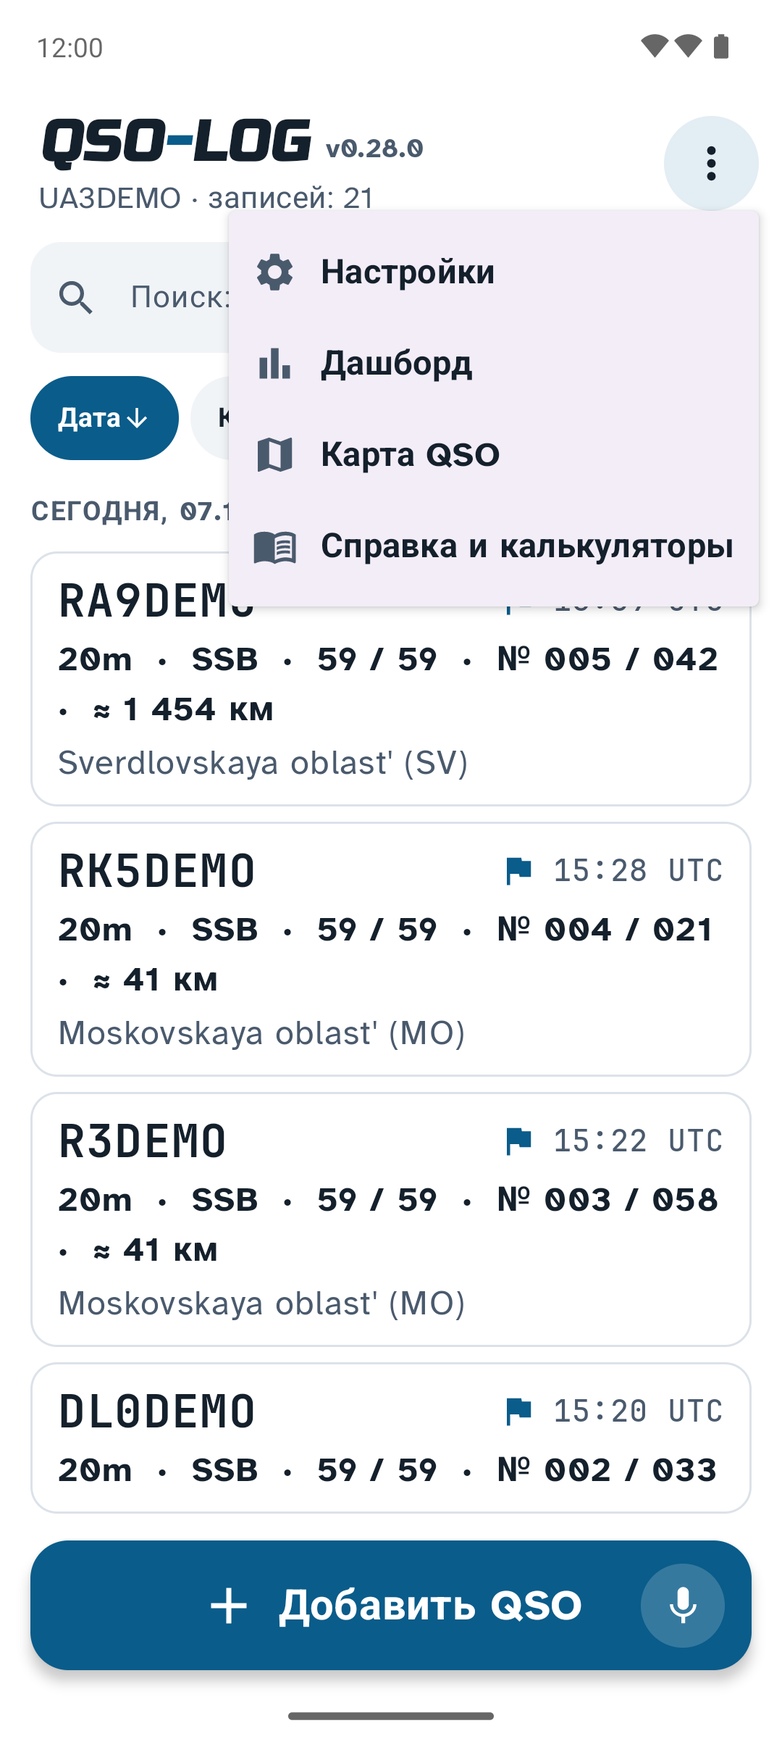
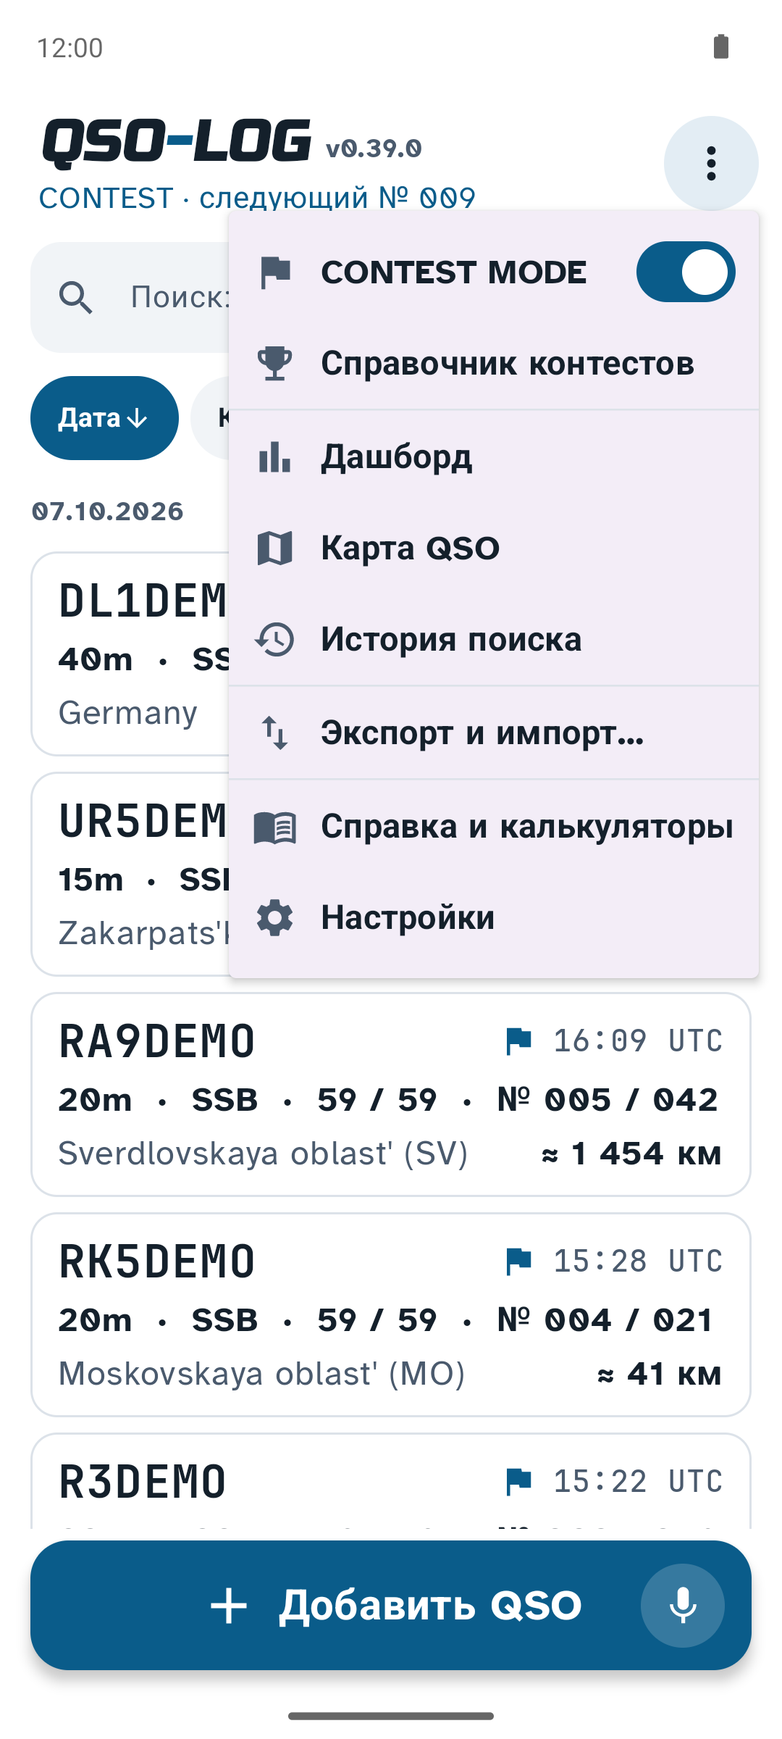
Android 0.39.0: grouped ⋮ menu, CONTEST MODE switch in the menu, Export and import in one window
- ⋮ menu in groups: CONTEST MODE (whole-row switch) and the contest book; dashboard, map, search history;
  Export and import…, sync; reference, keys (only with a keyboard attached), settings last.
- Export and import dialog: ADIF, CSV, ЕРМАК/Cabrillo in one place.
- Search history menu row only opens the screen (no switch inside the row).

diff --git a/app/src/main/java/ru/r3xed/qsolog/ui/LogScreen.kt b/app/src/main/java/ru/r3xed/qsolog/ui/LogScreen.kt
@@ -39,6 +39,9 @@ import androidx.compose.foundation.text.KeyboardOptions
 import androidx.compose.material.icons.Icons
 import androidx.compose.material.icons.filled.Add
 import androidx.compose.material.icons.filled.EmojiEvents
+import androidx.compose.material3.HorizontalDivider
+import androidx.compose.material3.Switch
+import androidx.compose.material.icons.filled.ImportExport
 import androidx.compose.material.icons.filled.ArrowDownward
 import androidx.compose.material.icons.filled.ArrowUpward
 import androidx.compose.material.icons.filled.CheckCircle
@@ -161,11 +164,14 @@ fun LogScreen(
                     FilledTonalIconButton(onClick = { menu = true }, modifier = Modifier.size(50.dp)) {
                         Icon(Icons.Filled.MoreVert, contentDescription = tr("Меню"), modifier = Modifier.size(27.dp))
                     }
+                    // Grouped: the operating mode, the log's views, files, then help and the settings — the rarest last.
                     DropdownMenu(expanded = menu, onDismissRequest = { menu = false }) {
+                        // The whole row switches contest mode; the menu stays open so the contest book shows up under it.
                         DropdownMenuItem(
-                            text = { MenuText(tr("Настройки"), "Ctrl+,", vm.hardKeyboard) },
-                            leadingIcon = { Icon(Icons.Filled.Settings, null) },
-                            onClick = { menu = false; vm.openSettings() },
+                            text = { MenuText("CONTEST MODE", "Ctrl+K", vm.hardKeyboard) },
+                            leadingIcon = { Icon(Icons.Filled.Flag, null) },
+                            trailingIcon = { Switch(checked = vm.contestMode, onCheckedChange = null) },
+                            onClick = { vm.toggleContestMode() },
                         )
                         if (vm.contestMode) {
                             DropdownMenuItem(
@@ -174,15 +180,7 @@ fun LogScreen(
                                 onClick = { menu = false; vm.openContests() },
                             )
                         }
-                        // Shown once the table is set up in the settings; the sync runs only from here or there.
-                        if (SheetSync.isScriptUrl(vm.sheetUrl)) {
-                            DropdownMenuItem(
-                                text = { Text(if (vm.sheetSyncing) tr("Синхронизация…") else tr("Синхронизировать"), fontSize = 18.sp) },
-                                leadingIcon = { Icon(Icons.Filled.Sync, null) },
-                                enabled = !vm.sheetSyncing,
-                                onClick = { menu = false; vm.syncSheet() },
-                            )
-                        }
+                        HorizontalDivider()
                         DropdownMenuItem(
                             text = { MenuText(tr("Дашборд"), "Ctrl+D", vm.hardKeyboard) },
                             leadingIcon = { Icon(Icons.Filled.BarChart, null) },
@@ -194,15 +192,39 @@ fun LogScreen(
                             onClick = { menu = false; vm.openMap() },
                         )
                         HistoryMenuItem(vm) { menu = false; vm.openHistory() }
+                        HorizontalDivider()
+                        DropdownMenuItem(
+                            text = { Text(tr("Экспорт и импорт…"), fontSize = 18.sp) },
+                            leadingIcon = { Icon(Icons.Filled.ImportExport, null) },
+                            onClick = { menu = false; vm.showTransfer = true },
+                        )
+                        // Shown once the table is set up in the settings; the sync runs only from here or there.
+                        if (SheetSync.isScriptUrl(vm.sheetUrl)) {
+                            DropdownMenuItem(
+                                text = { MenuText(if (vm.sheetSyncing) tr("Синхронизация…") else tr("Синхронизировать"), "Ctrl+R", vm.hardKeyboard) },
+                                leadingIcon = { Icon(Icons.Filled.Sync, null) },
+                                enabled = !vm.sheetSyncing,
+                                onClick = { menu = false; vm.syncSheet() },
+                            )
+                        }
+                        HorizontalDivider()
                         DropdownMenuItem(
                             text = { Text(tr("Справка и калькуляторы"), fontSize = 18.sp) },
                             leadingIcon = { Icon(Icons.AutoMirrored.Filled.MenuBook, null) },
                             onClick = { menu = false; vm.openReference() },
                         )
+                        // The list of keys matters only with a keyboard attached (F1 opens it as well).
+                        if (vm.hardKeyboard) {
+                            DropdownMenuItem(
+                                text = { MenuText(tr("Клавиши"), "F1", true) },
+                                leadingIcon = { Icon(Icons.Filled.Keyboard, null) },
+                                onClick = { menu = false; vm.showKeys = true },
+                            )
+                        }
                         DropdownMenuItem(
-                            text = { MenuText(tr("Внешняя клавиатура"), "F1", vm.hardKeyboard) },
-                            leadingIcon = { Icon(Icons.Filled.Keyboard, null) },
-                            onClick = { menu = false; vm.showKeys = true },
+                            text = { MenuText(tr("Настройки"), "Ctrl+,", vm.hardKeyboard) },
+                            leadingIcon = { Icon(Icons.Filled.Settings, null) },
+                            onClick = { menu = false; vm.openSettings() },
                         )
                     }
                 }

diff --git a/app/src/main/java/ru/r3xed/qsolog/ui/TransferDialog.kt b/app/src/main/java/ru/r3xed/qsolog/ui/TransferDialog.kt
@@ -1,0 +1,81 @@
+package ru.r3xed.qsolog.ui
+
+import androidx.compose.foundation.layout.Arrangement
+import androidx.compose.foundation.layout.Column
+import androidx.compose.foundation.layout.Row
+import androidx.compose.foundation.layout.Spacer
+import androidx.compose.foundation.layout.fillMaxWidth
+import androidx.compose.foundation.layout.heightIn
+import androidx.compose.foundation.layout.padding
+import androidx.compose.foundation.layout.width
+import androidx.compose.foundation.rememberScrollState
+import androidx.compose.foundation.shape.RoundedCornerShape
+import androidx.compose.foundation.verticalScroll
+import androidx.compose.material.icons.Icons
+import androidx.compose.material.icons.filled.FileDownload
+import androidx.compose.material.icons.filled.FileUpload
+import androidx.compose.material.icons.filled.ImportExport
+import androidx.compose.material3.AlertDialog
+import androidx.compose.material3.Icon
+import androidx.compose.material3.MaterialTheme
+import androidx.compose.material3.OutlinedButton
+import androidx.compose.material3.Text
+import androidx.compose.material3.TextButton
+import androidx.compose.runtime.Composable
+import androidx.compose.ui.Modifier
+import androidx.compose.ui.graphics.vector.ImageVector
+import androidx.compose.ui.unit.dp
+import androidx.compose.ui.unit.sp
+import ru.r3xed.qsolog.data.ExportFormat
+import ru.r3xed.qsolog.tr
+
+/**
+ * "Экспорт и импорт…" from the ⋮ menu: every file format in one place — what used to be six buttons deep in the
+ * settings. [onExport] opens the format's own export dialog; the imports open the file picker.
+ */
+@Composable
+fun TransferDialog(
+    total: Int,
+    onExport: (ExportFormat) -> Unit,
+    onImportAdif: () -> Unit,
+    onImportCsv: () -> Unit,
+    onImportContest: () -> Unit,
+    onDismiss: () -> Unit,
+) {
+    val x = LocalExtra.current
+    AlertDialog(
+        onDismissRequest = onDismiss,
+        icon = { Icon(Icons.Filled.ImportExport, null, tint = MaterialTheme.colorScheme.primary) },
+        title = { Text(tr("Экспорт и импорт")) },
+        text = {
+            Column(Modifier.heightIn(max = 520.dp).verticalScroll(rememberScrollState()), verticalArrangement = Arrangement.spacedBy(8.dp)) {
+                Text(tr("Экспорт журнала (записей: %s)", total), style = MaterialTheme.typography.titleSmall)
+                Choice("ADIF", tr("для LogHX, UR5EQF, QRZ.com, LoTW"), Icons.Filled.FileUpload) { onExport(ExportFormat.ADIF) }
+                Choice("CSV", tr("таблица для Excel и Google Таблиц"), Icons.Filled.FileUpload) { onExport(ExportFormat.CSV) }
+                Choice(tr("ЕРМАК / Cabrillo"), tr("отчёт для соревнований"), Icons.Filled.FileUpload) { onExport(ExportFormat.CONTEST) }
+                Text(tr("Импорт в журнал"), style = MaterialTheme.typography.titleSmall, modifier = Modifier.padding(top = 8.dp))
+                Choice("ADIF", tr("файл .adi или .adif"), Icons.Filled.FileDownload, onImportAdif)
+                Choice("CSV", tr("таблица с разделителем «;»"), Icons.Filled.FileDownload, onImportCsv)
+                Choice(tr("ЕРМАК / Cabrillo"), tr("отчёт .txt или .cbr"), Icons.Filled.FileDownload, onImportContest)
+                Text(
+                    tr("Чтобы выгрузить только часть журнала, выберите записи долгим нажатием и нажмите «Экспорт». Повторы при импорте пропускаются."),
+                    style = MaterialTheme.typography.bodyMedium, color = x.muted,
+                )
+            }
+        },
+        confirmButton = { TextButton(onClick = onDismiss) { Text(tr("Закрыть")) } },
+    )
+}
+
+/** One format: a wide button with the format's name and what it is for. */
+@Composable
+private fun Choice(title: String, note: String, icon: ImageVector, onClick: () -> Unit) {
+    OutlinedButton(onClick = onClick, modifier = Modifier.fillMaxWidth().heightIn(min = 56.dp), shape = RoundedCornerShape(14.dp)) {
+        Icon(icon, null)
+        Spacer(Modifier.width(10.dp))
+        Column(Modifier.weight(1f)) {
+            Text(title, fontSize = 17.sp, style = MaterialTheme.typography.titleSmall)
+            Text(note, style = MaterialTheme.typography.bodySmall, color = LocalExtra.current.muted)
+        }
+    }
+}

diff --git a/shared/src/main/kotlin/ru/r3xed/qsolog/WhatsNew.kt b/shared/src/main/kotlin/ru/r3xed/qsolog/WhatsNew.kt
@@ -9,11 +9,20 @@ import java.net.URLEncoder
 object WhatsNew {
     const val RELEASES_URL = "https://github.com/vladkondratyev/qso-log/releases"
 
-    /** Points of this release, the same on the phone and the computer unless [desktop] says otherwise. */
-    fun items(desktop: Boolean): List<String> = listOfNotNull(
+    /**
+     * Points of this release. The phone (0.39.0) is a release ahead of the computer (1.18.0): each has its own list
+     * until the computer catches up.
+     */
+    fun items(desktop: Boolean): List<String> = if (desktop) desktopItems() else listOf(
+        tr("Меню ⋮ разложено по группам: сверху режим CONTEST и справочник контестов, затем дашборд, карта и история поиска, потом файлы, внизу справка и настройки."),
+        tr("CONTEST MODE включается прямо из меню ⋮ — больше не нужно идти в настройки."),
+        tr("«Экспорт и импорт…» в меню: ADIF, CSV и ЕРМАК/Cabrillo в одном окне."),
+        tr("История поиска включается на своём экране, в меню — только переход к ней. Пункт со списком клавиш виден, когда подключена клавиатура."),
+    )
+
+    private fun desktopItems(): List<String> = listOfNotNull(
         tr("Справочник контестов (меню ⋮ в режиме CONTEST): название, код, время и туры для минитестов. Каждая связь помечается соревнованием и туром, в журнале — тур и таймер до его конца, отчёт ЕРМАК/Cabrillo — по выбранному соревнованию."),
         tr("Повторы в соревновании считаются по всему соревнованию, а с флажком «Обнулять повторы» — в каждом туре заново."),
-        if (desktop) null else tr("Программа запускается примерно в три раза быстрее, а файл установки стал в восемь раз меньше."),
         tr("Первый запуск проще: только позывной и локатор, источники данных можно подключить потом."),
         tr("«Что нового» и «Сообщить о проблеме» — в настройках, под номером версии."),
     )

diff --git a/shared/src/main/kotlin/ru/r3xed/qsolog/I18nEn.kt b/shared/src/main/kotlin/ru/r3xed/qsolog/I18nEn.kt
@@ -1073,4 +1073,22 @@ internal val EN: Map<String, String> = hashMapOf(
     "старт через %s" to "starts in %s",
     "тур %s/%s · %s" to "tour %s/%s · %s",
     "осталось %s" to "%s left",
+    // 0.39.0
+    "Меню ⋮ разложено по группам: сверху режим CONTEST и справочник контестов, затем дашборд, карта и история поиска, потом файлы, внизу справка и настройки." to "The ⋮ menu is grouped: CONTEST mode and the contest book on top, then the dashboard, map and search history, then files, help and settings at the bottom.",
+    "CONTEST MODE включается прямо из меню ⋮ — больше не нужно идти в настройки." to "CONTEST MODE switches on right from the ⋮ menu — no trip to the settings.",
+    "«Экспорт и импорт…» в меню: ADIF, CSV и ЕРМАК/Cabrillo в одном окне." to "“Export and import…” in the menu: ADIF, CSV and ЕРМАК/Cabrillo in one window.",
+    "История поиска включается на своём экране, в меню — только переход к ней. Пункт со списком клавиш виден, когда подключена клавиатура." to "Search history is switched on its own screen; the menu only opens it. The keys item shows when a keyboard is attached.",
+    "Экспорт и импорт…" to "Export and import…",
+    "Экспорт и импорт" to "Export and import",
+    "Клавиши" to "Keys",
+    "выкл." to "off",
+    "Экспорт журнала (записей: %s)" to "Export the log (%s QSOs)",
+    "для LogHX, UR5EQF, QRZ.com, LoTW" to "for LogHX, UR5EQF, QRZ.com, LoTW",
+    "таблица для Excel и Google Таблиц" to "a table for Excel and Google Sheets",
+    "отчёт для соревнований" to "a contest report",
+    "Импорт в журнал" to "Import into the log",
+    "файл .adi или .adif" to "an .adi or .adif file",
+    "таблица с разделителем «;»" to "a table separated with “;”",
+    "отчёт .txt или .cbr" to "a .txt or .cbr report",
+    "Чтобы выгрузить только часть журнала, выберите записи долгим нажатием и нажмите «Экспорт». Повторы при импорте пропускаются." to "To export part of the log, pick QSOs with a long press and tap “Export”. Duplicates are skipped on import.",
 )

diff --git a/app/src/main/java/ru/r3xed/qsolog/MainActivity.kt b/app/src/main/java/ru/r3xed/qsolog/MainActivity.kt
@@ -255,6 +255,14 @@ class MainActivity : ComponentActivity() {
                             )
                         }
                         if (vm.showKeys) HardwareKeysDialog(onClose = { vm.showKeys = false })
+                        if (vm.showTransfer) ru.r3xed.qsolog.ui.TransferDialog(
+                            total = vm.total,
+                            onExport = { vm.showTransfer = false; vm.openExport(it, selectedOnly = false) },
+                            onImportAdif = { vm.showTransfer = false; importAdif.launch(arrayOf("*/*")) },
+                            onImportCsv = { vm.showTransfer = false; import.launch(arrayOf("text/*", "application/csv", "application/vnd.ms-excel", "application/octet-stream")) },
+                            onImportContest = { vm.showTransfer = false; importContest.launch(arrayOf("*/*")) },
+                            onDismiss = { vm.showTransfer = false },
+                        )
                         // Not over the first-start setup: it waits until the log.
                         if (vm.showWhatsNew && vm.screen != Screen.Welcome) ru.r3xed.qsolog.ui.WhatsNewDialog(BuildConfig.VERSION_NAME, desktop = false, onClose = vm::closeWhatsNew)
                         if (vm.historyAsk) HistoryOnDialog(onConfirm = { vm.changeHistoryOn(true) }, onDismiss = { vm.historyAsk = false })

diff --git a/shared/src/test/kotlin/ru/r3xed/qsolog/WhatsNewTest.kt b/shared/src/test/kotlin/ru/r3xed/qsolog/WhatsNewTest.kt
@@ -16,8 +16,8 @@ class WhatsNewTest {
 
     @Test
     fun itemsDifferForTheComputer() {
-        // The faster start is about the Android build only.
-        assertTrue(WhatsNew.items(desktop = false).size == WhatsNew.items(desktop = true).size + 1)
-        assertTrue(WhatsNew.items(desktop = true).none { "быстрее" in it })
+        // The phone is a release ahead: its list is about the ⋮ menu, the computer's about the contest book.
+        assertTrue(WhatsNew.items(desktop = false).any { "CONTEST MODE" in it })
+        assertTrue(WhatsNew.items(desktop = true).none { "⋮ разложено" in it })
     }
 }

diff --git a/app/src/main/java/ru/r3xed/qsolog/ui/HistoryScreen.kt b/app/src/main/java/ru/r3xed/qsolog/ui/HistoryScreen.kt
@@ -468,7 +468,8 @@ fun HistoryMenuItem(vm: AppViewModel, onOpen: () -> Unit) {
             }
         },
         leadingIcon = { Icon(Icons.Filled.History, null) },
-        trailingIcon = { Switch(checked = vm.historyOn, onCheckedChange = { vm.requestHistoryOn(it) }) },
+        // Only opens the screen: the history is switched on and off there, not by a switch hidden in a menu row.
+        trailingIcon = { if (!vm.historyOn) Text(tr("выкл."), fontSize = 14.sp, color = LocalExtra.current.muted) },
         onClick = onOpen,
     )
 }

diff --git a/app/src/main/java/ru/r3xed/qsolog/AppViewModel.kt b/app/src/main/java/ru/r3xed/qsolog/AppViewModel.kt
@@ -557,6 +557,9 @@ class AppViewModel(app: Application) : AndroidViewModel(app) {
     val hasUnsavedChanges: Boolean
         get() = formOriginal.let { it != null && form != it }
 
+    /** "Экспорт и импорт…" from the ⋮ menu is open. */
+    var showTransfer by mutableStateOf(false)
+
     /** "Что нового" is open: once after an update (not on the first install), or from the settings. */
     var showWhatsNew by mutableStateOf(false)
 

diff --git a/README.en.md b/README.en.md
@@ -27,7 +27,7 @@ The app is free and open source. The interface is in Russian and English.
 
 | System | Version | File |
 |---|---|---|
-| Android 8.0 or newer | 0.38.0 | [QSO-LOG-0.38.0.apk](../../releases/tag/v0.38.0) |
+| Android 8.0 or newer | 0.39.0 | [QSO-LOG-0.39.0.apk](../../releases/tag/v0.39.0) |
 | macOS 11 or newer, Apple silicon (M1 and newer) | 1.18.0 | [QSO-LOG-1.18.0-macos-arm64.dmg](../../releases/tag/desktop-v1.18.0) |
 | macOS 11 or newer, Intel | 1.18.0 | [QSO-LOG-1.18.0-macos-x64.dmg](../../releases/tag/desktop-v1.18.0) |
 | Windows 10 and 11, 64-bit | 1.18.0 | [QSO-LOG-1.18.0-windows-x64.zip](../../releases/tag/desktop-v1.18.0) |
@@ -119,7 +119,8 @@ normal card and to contest mode.
 
 ## Contest mode
 
-Contests need speed, so there is a separate mode. Switch it on in Settings → "QSO entry" → **CONTEST MODE**.
+Contests need speed, so there is a separate mode. Switch it on with the first row of the ⋮ menu — **CONTEST MODE**
+(also in Settings → "QSO entry", or Ctrl+K on a keyboard).
 It turns off every time the app starts, so you don't keep your everyday log in it by accident.
 
 Under the switch you choose what to send:
@@ -261,8 +262,8 @@ press Enter or Space; the app switches band, mode or frequency and clears the fi
 
 A command can't be mistaken for a callsign: a callsign always has both letters and digits.
 
-On a phone the key list also opens from the ⋮ menu → "External keyboard"; with a keyboard attached the shortcuts are
-shown in the ⋮ menu too. On a Mac press the F keys with fn unless "Use F1, F2, etc. keys as standard function keys" is
+On a phone with a keyboard attached the ⋮ menu gets a "Keys" item with the list, and the shortcuts are shown in the
+menu items. On a Mac press the F keys with fn unless "Use F1, F2, etc. keys as standard function keys" is
 on in the keyboard settings.
 
 <p>
@@ -321,7 +322,7 @@ itself. It is a lookup cache: no QSOs come from it, and it is not counted. If yo
 the row says "in the log: N QSO". Each entry shows where the data came from (QRZ.ru, the QRZ.ru site, QRZ.com or
 HamQTH) and when.
 
-Switch the history on in the ⋮ menu or on its screen; the app explains first what it is for. The main use is working
+Switch the history on on its screen (⋮ menu → "Search history"); the app explains first what it is for. The main use is working
 without internet: when QRZ.ru or QRZ.com don't answer, the new QSO card is filled from the history (marked "From the
 search history"). The entries stay on the device.
 
@@ -377,6 +378,8 @@ worked on OpenStreetMap; a tap on a point opens the last QSO with that station.
 </p>
 
 ## Export and import
+
+All formats are in one window: ⋮ menu → **"Export and import…"** (the same buttons are in Settings → "Logbook").
 
 - **ADIF** (.adi) for LogHX, UR5EQF, HamLog, N1MM, QRZ.com and others, and for moving the log between phone and
   computer. Choose UTF-8 or Windows-1251 when exporting; on import the encoding is detected and all fields are kept.
@@ -473,7 +476,7 @@ Install a new version over the old one; the log and settings are kept.
 
 ### Android
 
-Download `QSO-LOG-0.38.0.apk` from the [release page](../../releases/tag/v0.38.0) and open it on the phone; allow
+Download `QSO-LOG-0.39.0.apk` from the [release page](../../releases/tag/v0.39.0) and open it on the phone; allow
 installing from this source if Android asks.
 
 ### macOS
